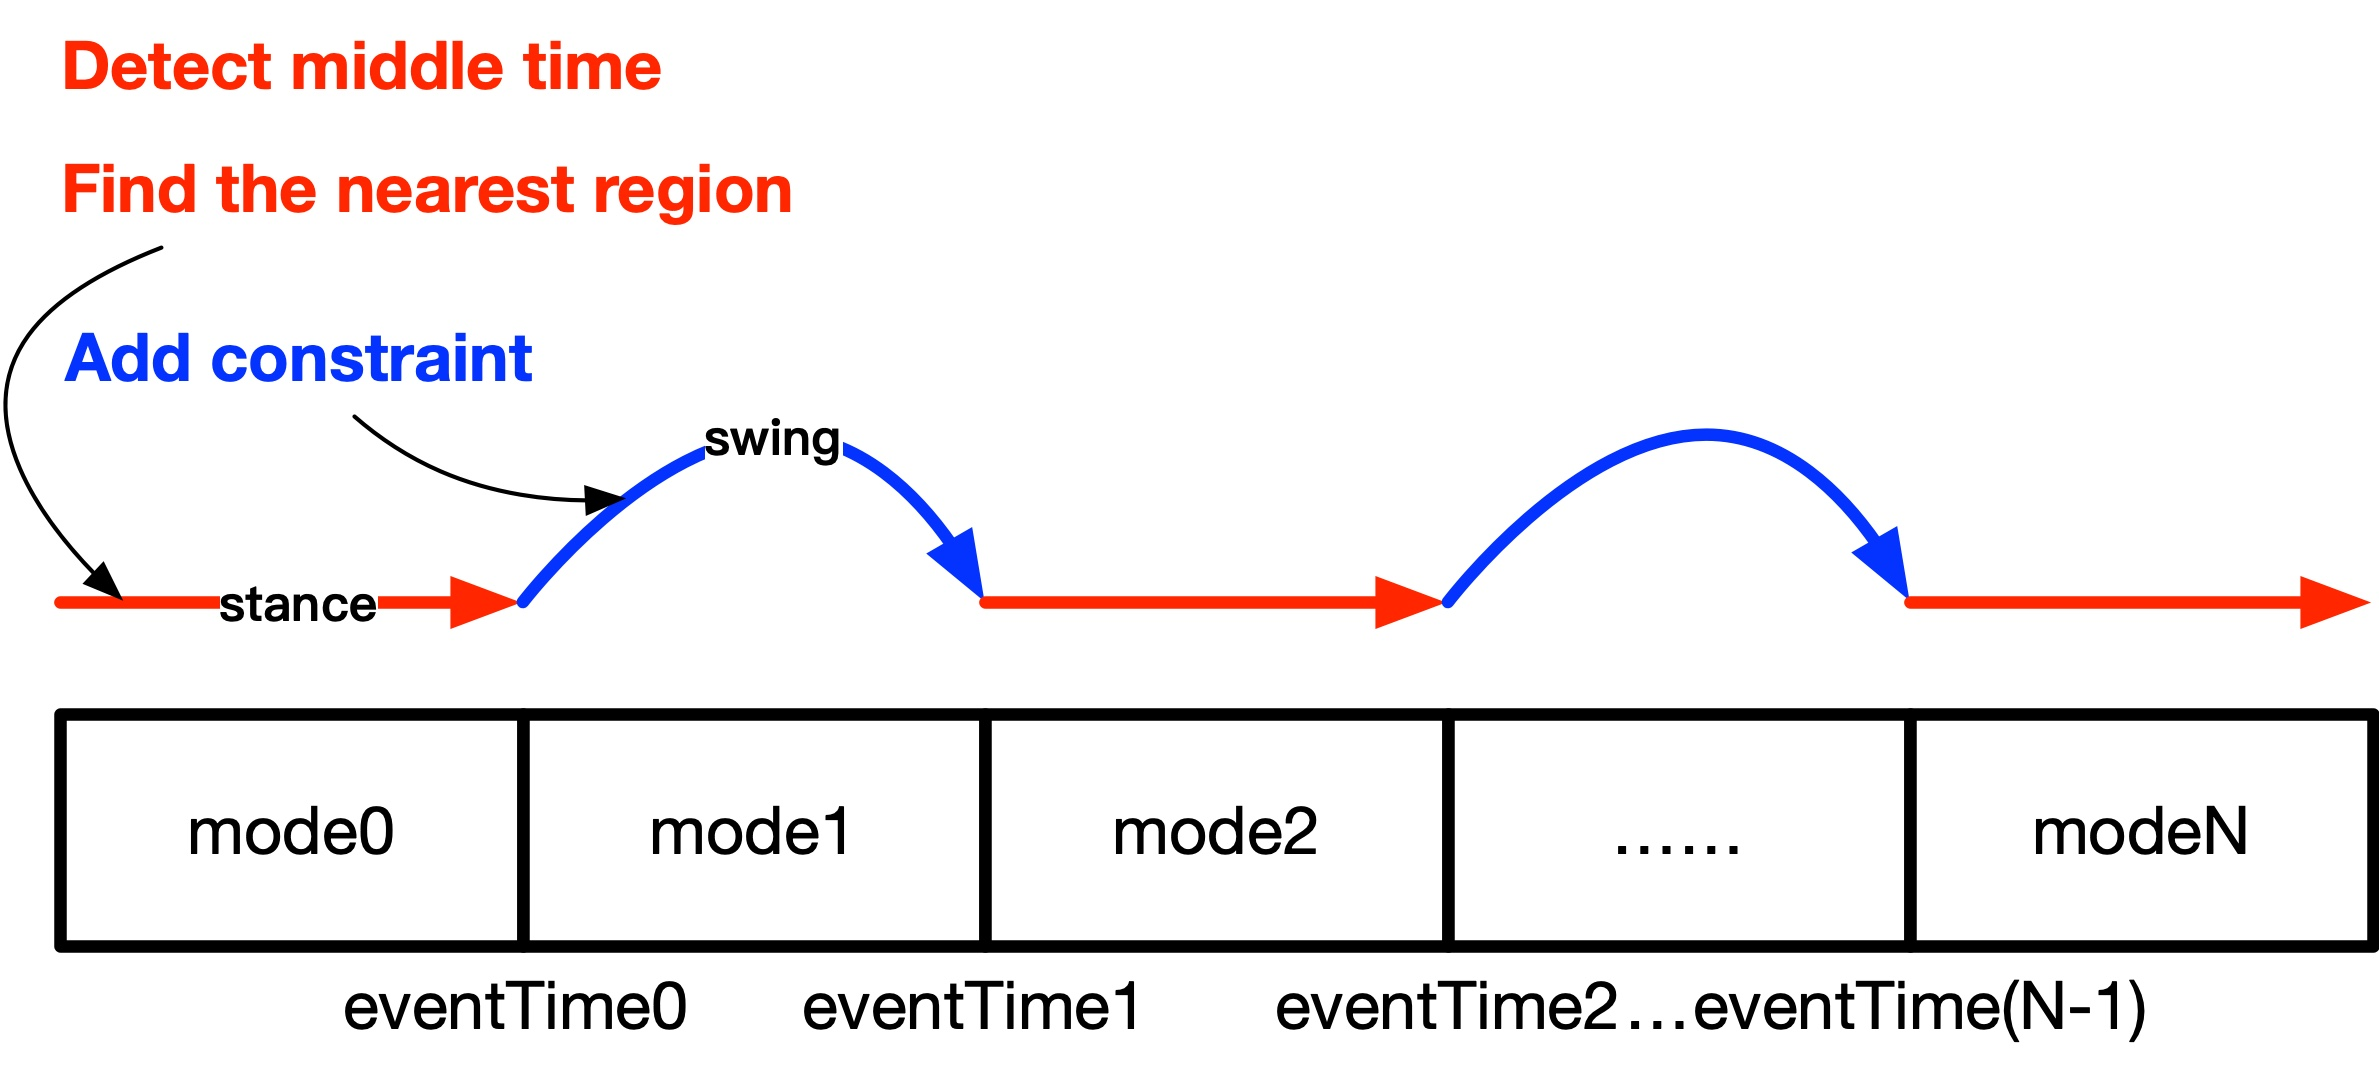
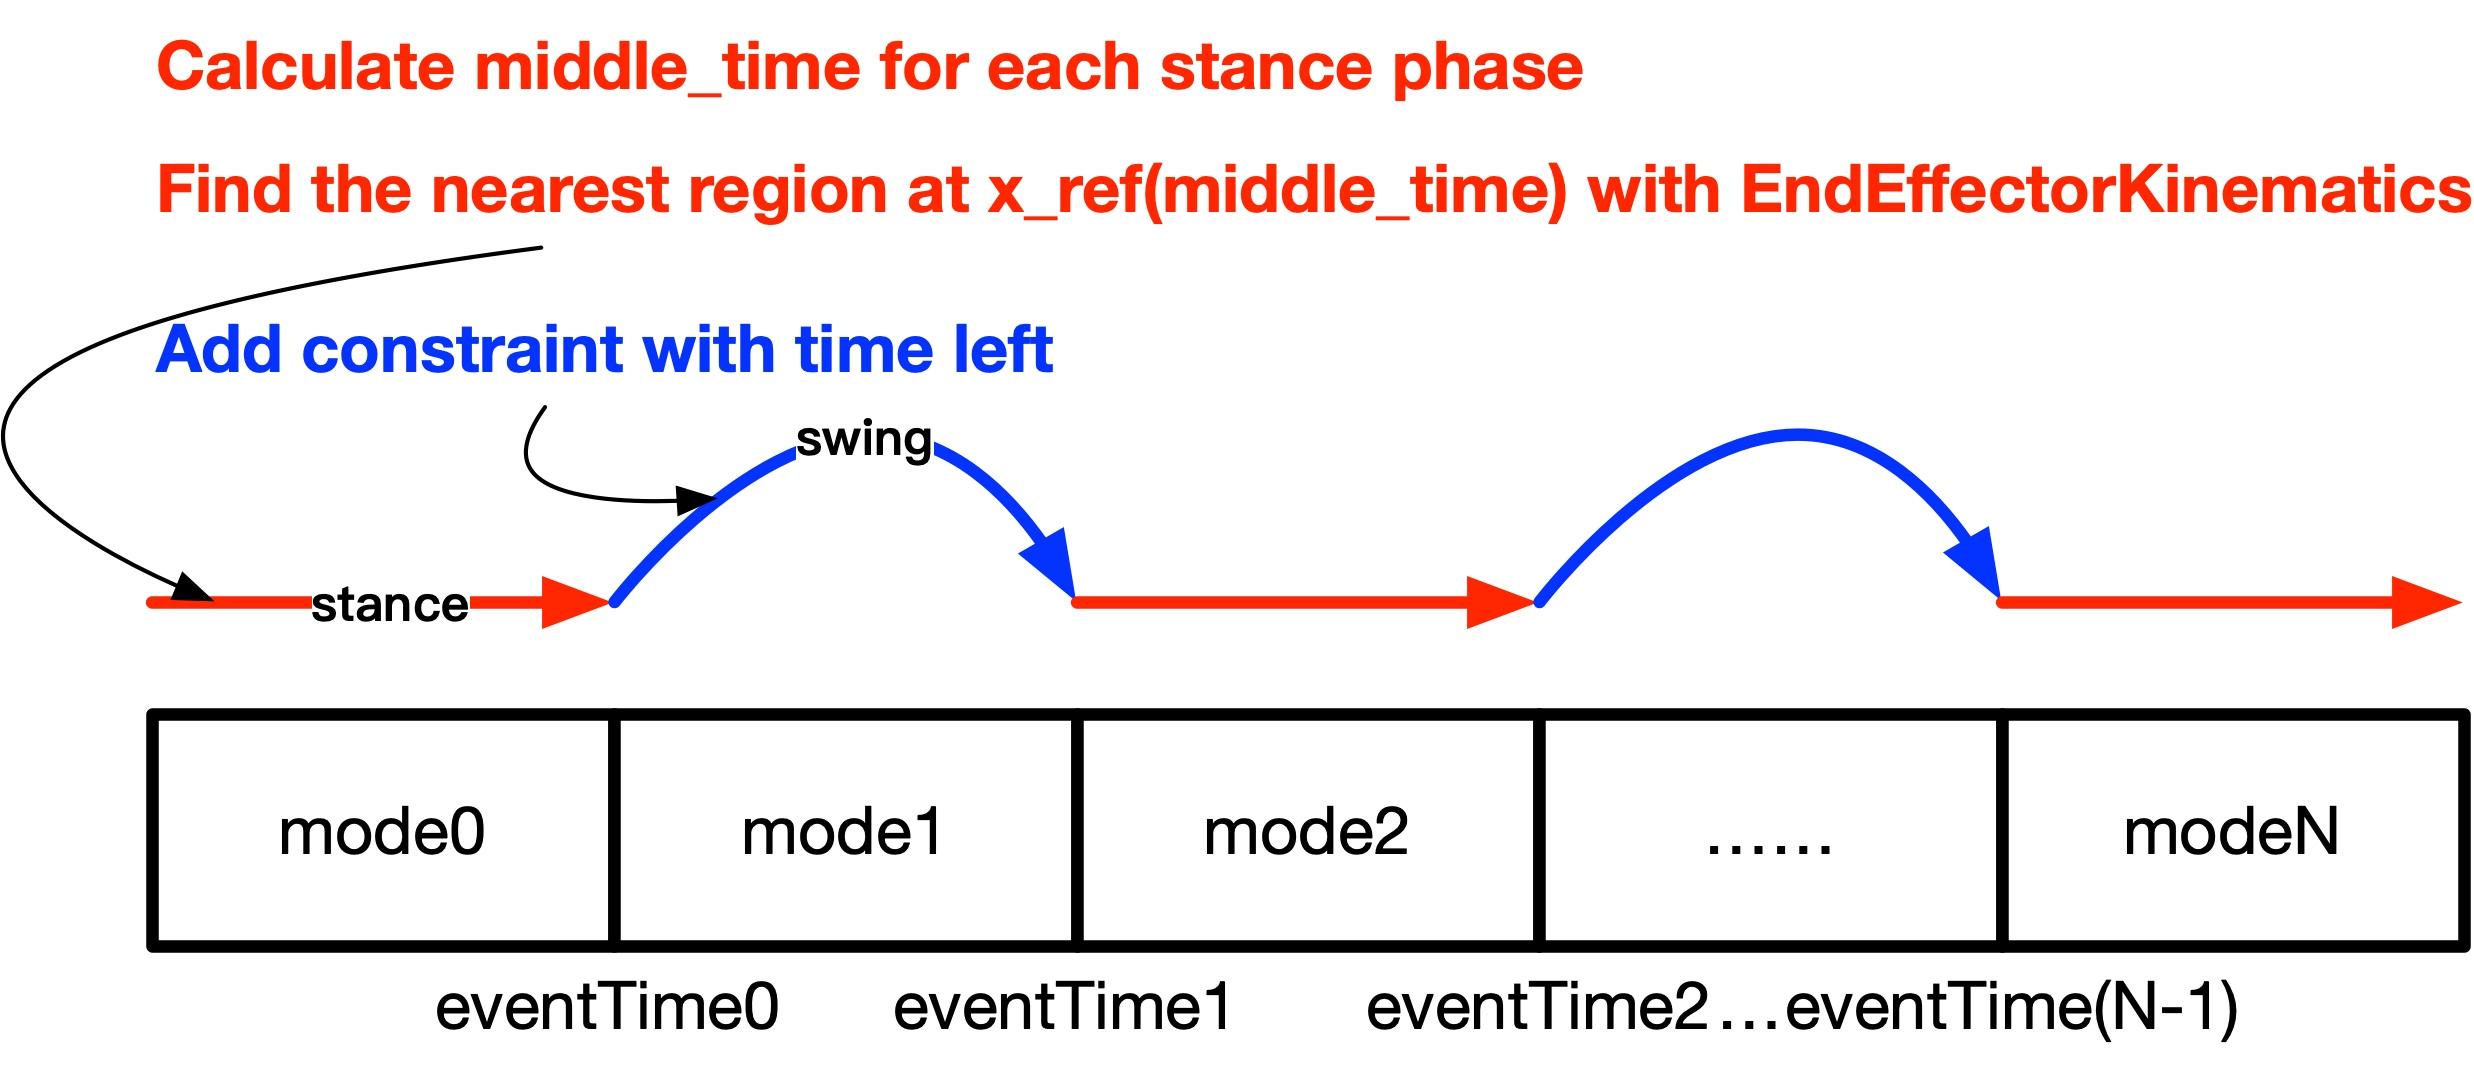
update

diff --git a/src/gait/GaitSchedule.cpp b/src/gait/GaitSchedule.cpp
@@ -77,6 +77,9 @@ ModeSchedule GaitSchedule::getModeSchedule(scalar_t lowerBoundTime,
                                            scalar_t upperBoundTime) {
   auto& eventTimes = modeSchedule_.eventTimes;
   auto& modeSequence = modeSchedule_.modeSequence;
+  // std::lower_bound returns an iterator pointing to the first element in the
+  // range [first, last) that is not less than (i.e. greater or equal to) value,
+  // or last if no such element is found.
   const size_t index =
       std::lower_bound(eventTimes.begin(), eventTimes.end(), lowerBoundTime) -
       eventTimes.begin();

diff --git a/src/foot_planner/SwingTrajectoryPlanner.cpp b/src/foot_planner/SwingTrajectoryPlanner.cpp
@@ -128,6 +128,7 @@ SwingTrajectoryPlanner::updateFootSchedule(
 
   // find the startTime and finalTime indices for swing feet
   for (size_t i = 0; i < numPhases; i++) {
+    // skip if it is a stance leg
     if (!contactFlagStock[i]) {
       std::tie(startTimeIndexStock[i], finalTimeIndexStock[i]) =
           findIndex(i, contactFlagStock);

diff --git a/README.md b/README.md
@@ -465,6 +465,19 @@ void GaussNewtonDDP::runIteration(bool unreliableControllerIncrement) {
 
 ![](images/TODO.jpg)
 
+```c++
+void SwitchedModelReferenceManager::modifyReferences(
+    scalar_t initTime, scalar_t finalTime, const vector_t& initState,
+    TargetTrajectories& targetTrajectories, ModeSchedule& modeSchedule) {
+  const auto timeHorizon = finalTime - initTime;
+  modeSchedule = gaitSchedulePtr_->getModeSchedule(initTime - timeHorizon,
+                                                   finalTime + timeHorizon);
+
+  const scalar_t terrainHeight = 0.0;
+  swingTrajectoryPtr_->update(modeSchedule, terrainHeight);
+}
+```
+
 ![](images/cbf_mpc.png)
 ## References
 
